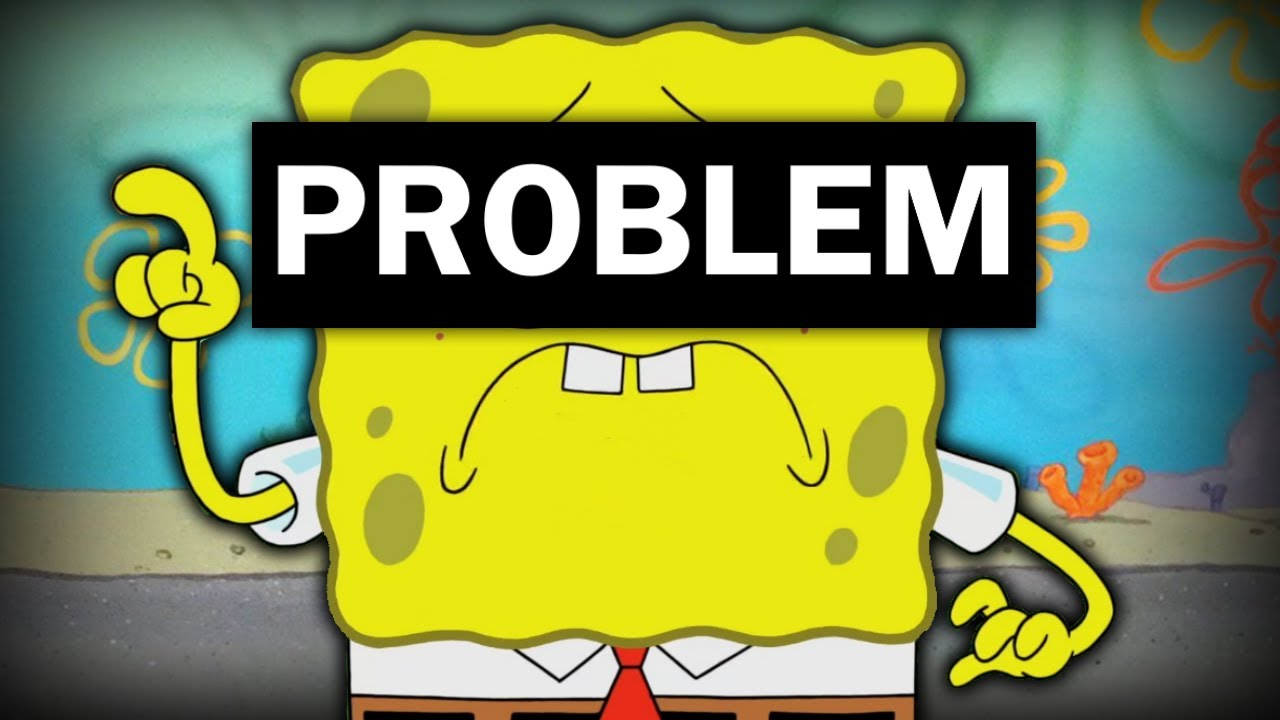
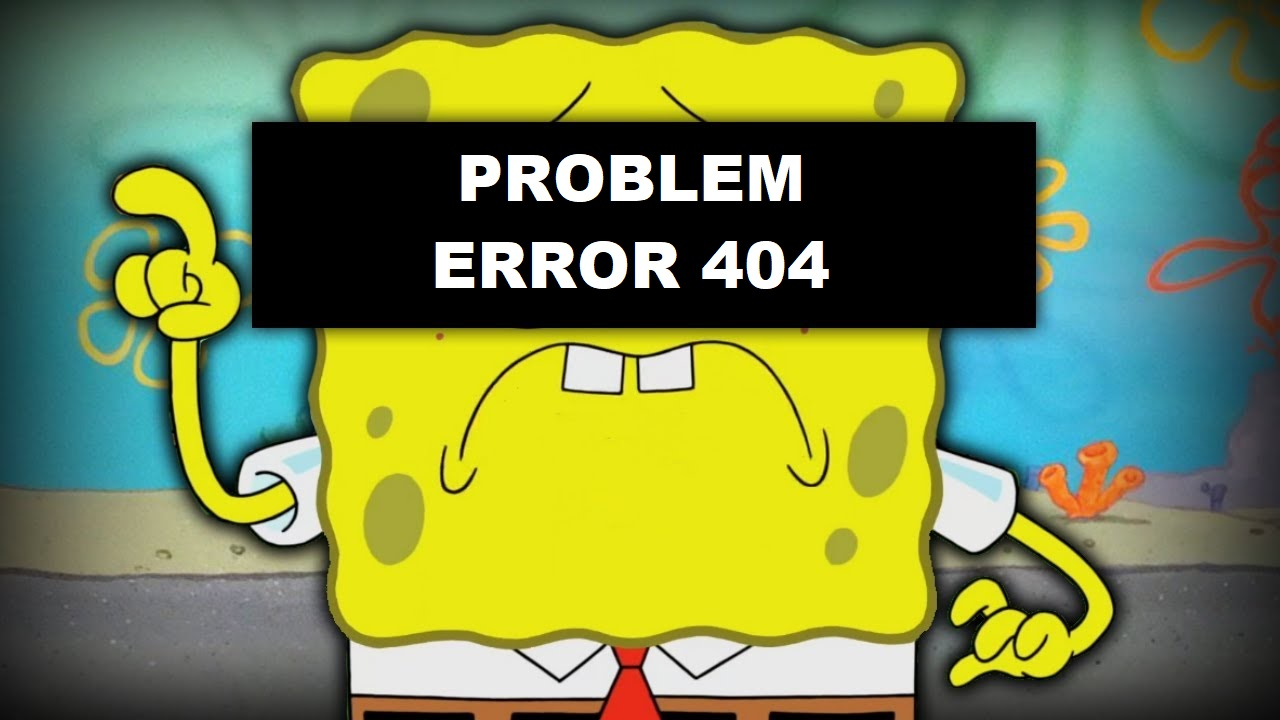
se cambio frase a mostrar, y elimin{o footer

Changed region(s): [[0.2188, 0.2139, 0.8125, 0.3972]]

diff --git a/404.html b/404.html
@@ -1,115 +1,35 @@
 <!doctype html>
 <html lang="es">
-  <head>
+
+<head>
     <meta charset="utf-8">
     <meta http-equiv="X-UA-Compatible" content="IE=edge">
     <meta name="viewport" content="width=device-width, initial-scale=1">
     <title>Crustaceo Cascarudo</title>
-    <link rel="stylesheet" href="./Css/login.css">
-    <link href="https://cdn.jsdelivr.net/npm/bootstrap@5.2.1/dist/css/bootstrap.min.css" rel="stylesheet" integrity="sha384-iYQeCzEYFbKjA/T2uDLTpkwGzCiq6soy8tYaI1GyVh/UjpbCx/TYkiZhlZB6+fzT" crossorigin="anonymous">
+    <link rel="stylesheet" href="./Css/style.css">
+    <link href="https://cdn.jsdelivr.net/npm/bootstrap@5.2.1/dist/css/bootstrap.min.css" rel="stylesheet"
+        integrity="sha384-iYQeCzEYFbKjA/T2uDLTpkwGzCiq6soy8tYaI1GyVh/UjpbCx/TYkiZhlZB6+fzT" crossorigin="anonymous">
     <script src="//cdn.jsdelivr.net/npm/sweetalert2@11"></script>
-  </head>
+</head>
 
-  <body>
-    <!-- Inicio Header -->
-    <header>
-    </header>
-      
-  <!-- final Header -->
-
-  <!-- inicio error 404 -->
-
-  <section class="container text-center my-5">
-    <section>
-        <a href="index.html" class="btn btn-outline-warning my-3">
-            <i class="fas fa-home"></i> <img src="./Img/piñaHome.png" width="85" alt="inicio"> <br> Inicio <i class="fa fas-hundo"></i>
-        </a>
-        <img src="./Img/errorBob.jpg" alt="eror404" width="100%">
-    </section>
-    
-    
-
-    
-    
-    
-    
-    
-    
-    
-</main>
-<!-- final error 404 -->
-
-<!-- Inicio Footer-->
-<footer class="mt-5 container-fluid bg-dark text-white-50 justify-content-evenly py-1">
-  <div class="container">
-      <section class="row">
-          <article class="col-sm-12 col-md-6 col-lg-3 mb-3">
-              <h4>Navegación</h4>
-              <ul class="navbar-nav ms-auto mb-0 mb-lg-0">
-                  <li class="nav-item">
-                      <a class="nav-link text-white-50" href="/404.html">Nosotros</a>
-                  </li>
-                  <li class="nav-item">
-                      <a class="nav-link text-white-50" href="/404.html">Soporte</a>
-                  </li>
-                  <li class="nav-item">
-                      <a class="nav-link text-white-50" href="/404.html">Seguridad</a>
-                  </li>
-                  <li class="nav-item">
-                      <a class="nav-link text-white-50" href="/404.html">Politica de privacidad</a>
-                  </li>
-              </ul>
-          </article>
-          <article class="col-sm-12 col-md-4 col-lg-3 mb-3">
-              <h4 class="font">Store</h4>
-              <ul class="navbar-nav ms-auto mb-2 mb-lg-0">
-                  <li class="nav-item">
-                      <a class="nav-link active text-white-50" href="/404.html">Locales</a>
-                  </li>
-                  <li class="nav-item">
-                      <a class="nav-link text-white-50" href="/404.html">Financiamiento</a>
-                  </li>
-                  <li class="nav-item">
-                      <a class="nav-link text-white-50" href="/404.html">Estado de orden</a>
-                  </li>
-                  <li class="nav-item">
-                      <a class="nav-link text-white-50" href="/404.html">Franquicias</a>
-                  </li>
-                  <li class="nav-item">
-                      <a class="nav-link text-white-50" href="/404.html">Terminos y condiciones</a>
-                  </li>
-              </ul>
-          </article>
-          <article class="col-sm-12 col-md-4 col-lg-3 mb-3">
-              <h4>Metodos de pago</h4>
-              <img src="https://assets.jumpseller.com/store/bootstrap/themes/382017/pay-paypal.png?1619113824"
-                  width="100px" alt="Metodos de pago" />
-              <img src="https://assets.jumpseller.com/store/bootstrap/themes/382017/pay-visa.png?1619113824"
-                  width="100px" alt="Metodos de pago" />
-              <img src="https://assets.jumpseller.com/store/bootstrap/themes/382017/pay-master.png?1619113824"
-                  width="100px" alt="Metodos de pago" />
-              <img src="https://assets.jumpseller.com/store/bootstrap/themes/382017/pay-american.png?1619113824"
-                  width="100px" alt="Metodos de pago" />
-          </article>
-          <article class="col-sm-12 col-md-4 col-lg-3 mb-3">
-              <h4>Seguinos</h4>
-              <a class="btn btn-dark my-2>" href="https://www.instagram.com/accounts/login/?"><i
-                      class="fab fa-instagram fa-3x"></i></a>
-              <a class="btn btn-dark my-2" href="https://www.facebook.com/login/"><i
-                      class="fab fa-facebook-square fa-3x"></i></a>
-          </article>
-      </section>
-  </div>
-  <p class="text-center">
-      Fuerzas Gyniu &copy; Todos los derechos reservados
-  </p>
-</footer>
-<!-- final Footer-->    
-    <script src="https://cdn.jsdelivr.net/npm/bootstrap@5.2.1/dist/js/bootstrap.bundle.min.js" integrity="sha384-u1OknCvxWvY5kfmNBILK2hRnQC3Pr17a+RTT6rIHI7NnikvbZlHgTPOOmMi466C8" crossorigin="anonymous"></script>
-    <!-- link JavaScript -->
-    <script src="./JavaScript/login.js"></script>
-    <script src="./JavaScript/registro.js"></script>
-    <script src="./JavaScript/acceso.js"></script>
-    
-  </body>
+<body>
+    <!-- inicio error 404 -->
+    <section class="container text-center my-5">
+        <section>
+            <a href="index.html" class="btn btn-outline-dark my-3">
+                <i class="fas fa-home da"></i> <img src="./Img/piñaHome.png" width="85" alt="inicio"> <br> Inicio <i
+                    class="fa fas-hundo"></i>
+            </a>
+            <img src="./Img/errorBob.jpg" alt="eror404" width="100%">
+        </section>
+        </main>
+        <!-- final error 404 -->
+        <script src="https://cdn.jsdelivr.net/npm/bootstrap@5.2.1/dist/js/bootstrap.bundle.min.js"
+            integrity="sha384-u1OknCvxWvY5kfmNBILK2hRnQC3Pr17a+RTT6rIHI7NnikvbZlHgTPOOmMi466C8"
+            crossorigin="anonymous"></script>
+        <!-- link JavaScript -->
+        <script src="./JavaScript/login.js"></script>
+        <script src="./JavaScript/registro.js"></script>
+        <script src="./JavaScript/acceso.js"></script>
+</body>
 </html>
